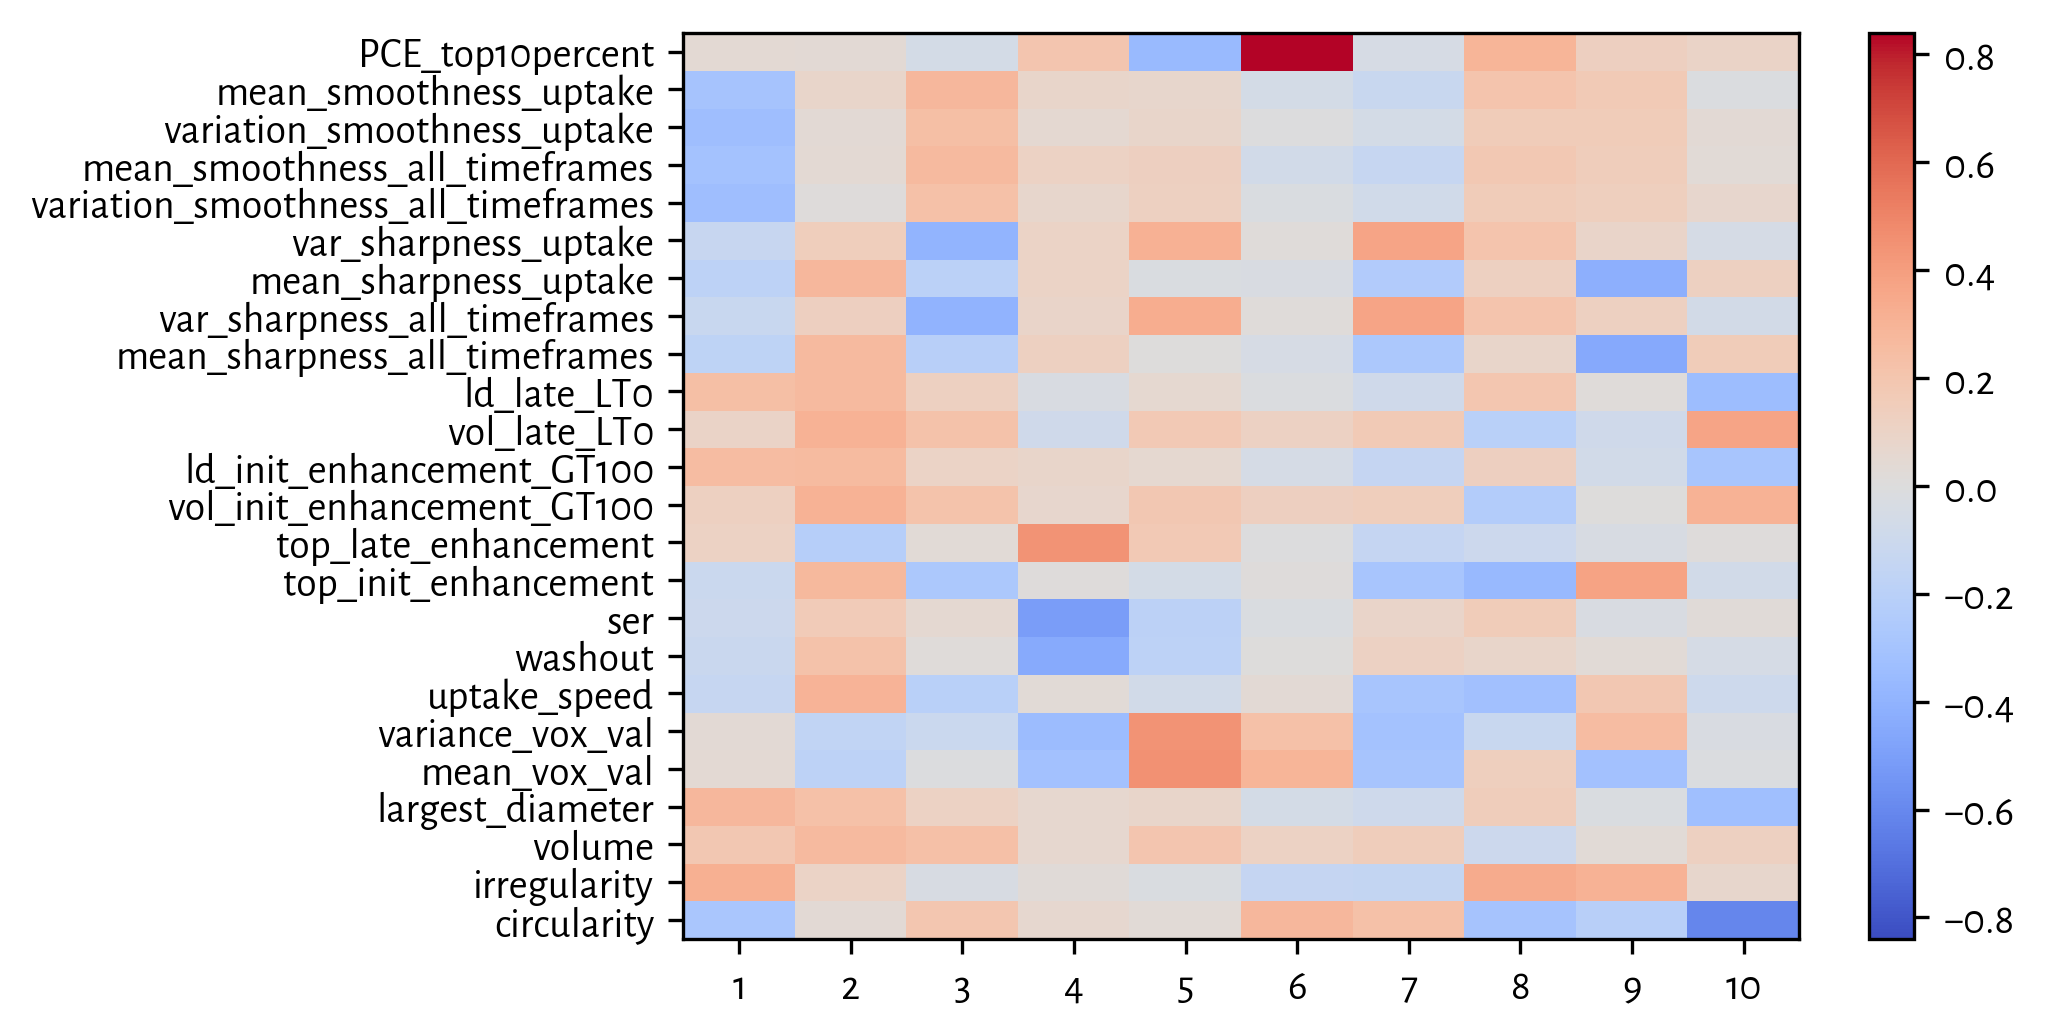
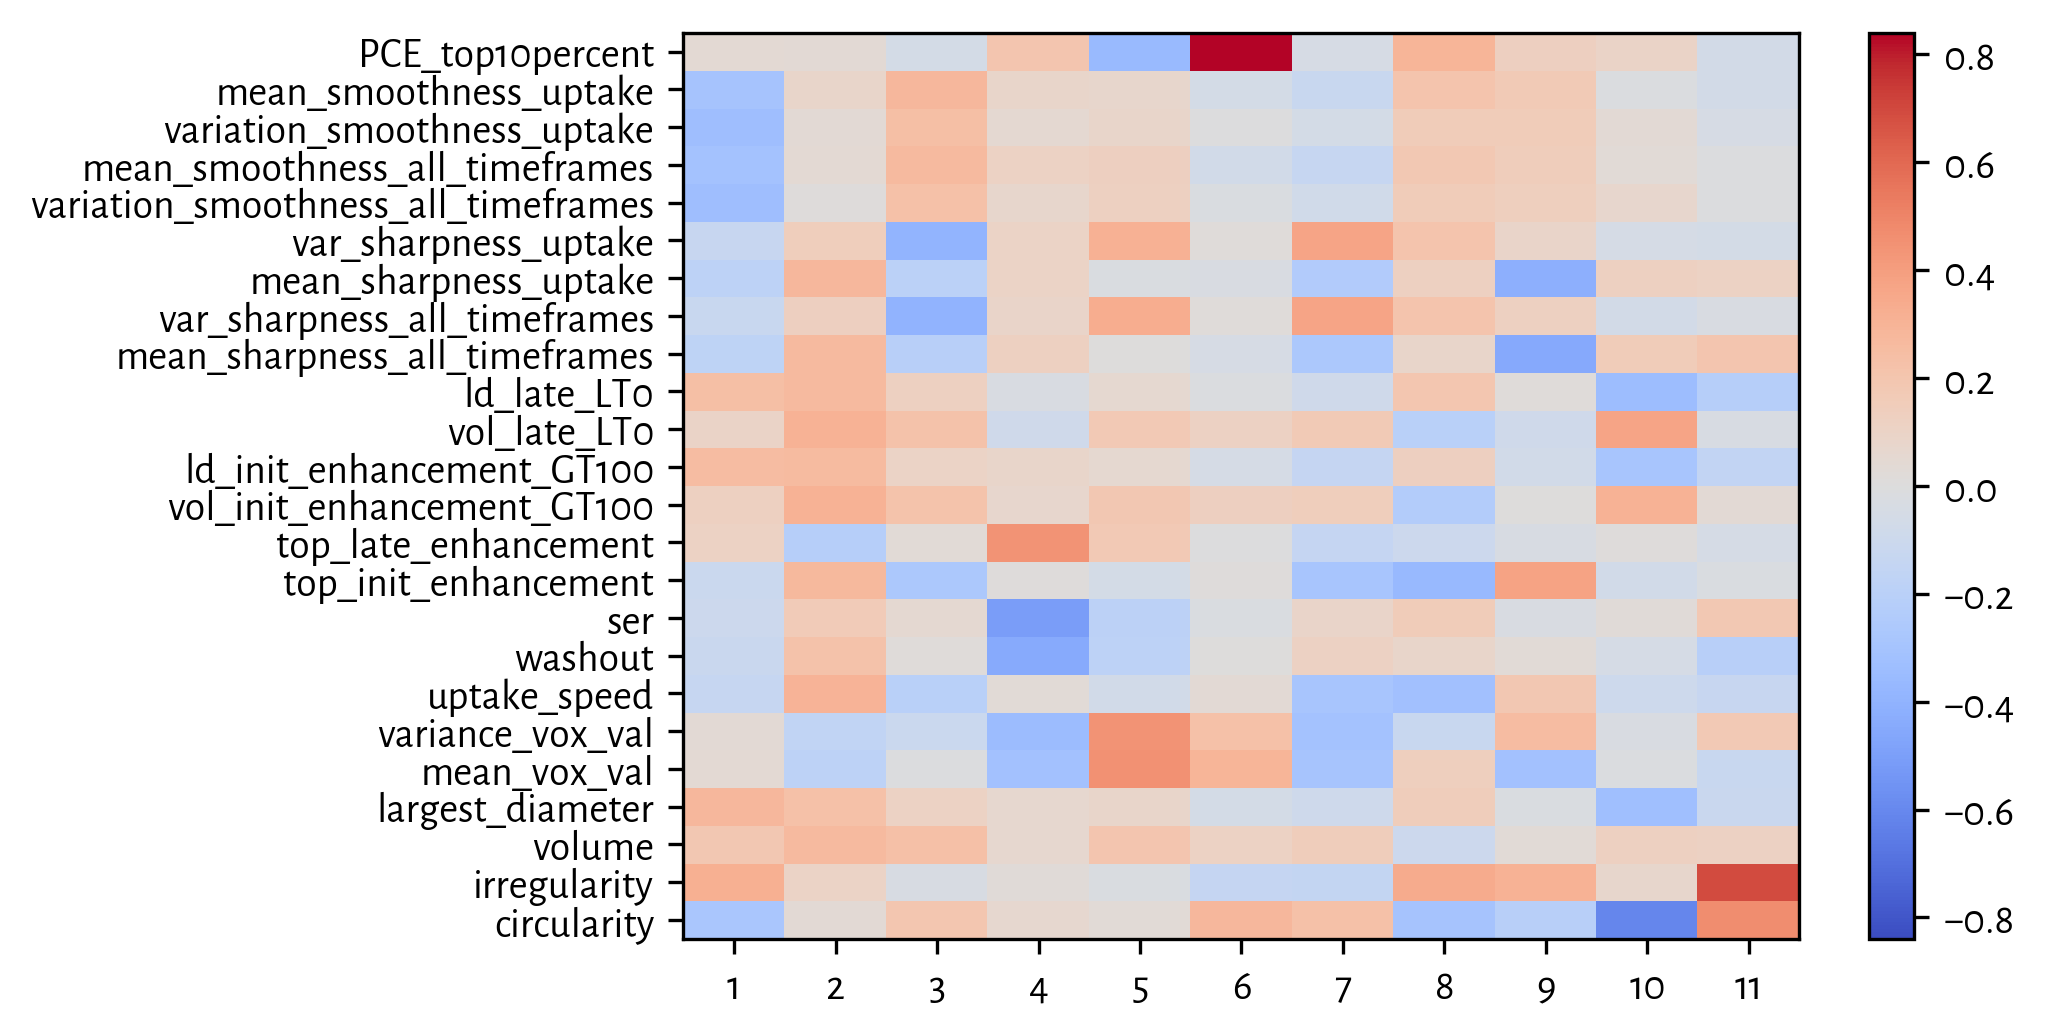
Do varimax rotation if MRI features PCa

diff --git a/reports/mri-remove-size.md b/reports/mri-remove-size.md
@@ -11,15 +11,14 @@ Load libraries.
 
 ```python
 from math import sqrt, ceil
-import sys
 
+import factor_rotation
 from IPython.display import display, Markdown
 import numpy as np
 import scipy.stats
 import sklearn.decomposition
 import xarray as xr
 
-sys.path.append('../src/lib/')
 import plot
 ```
 
@@ -77,11 +76,10 @@ Coordinates:
   * cad_feature  (cad_feature) <U35 'circularity' 'irregularity'
 'volume' ...
 Attributes:
-    title: MRI features from Margins of samples with gene expression
-data from Imagene
-    history: 2017-04-12T14:56:13+00:00 process_mri.py Converted from
-/home/tycho/Projects/Imagene/mri-rnaseq-integration/data/raw/mri-
-features.xlsx.
+    title:    MRI features from Margins of samples with gene
+expression data ...
+    history:  2017-04-12T14:56:13+00:00 process_mri.py Converted from
+/home/t...
 ```
 
 
@@ -92,12 +90,12 @@ features.xlsx.
 
 
 ```python
-pca = sklearn.decomposition.PCA(10)
+pca = sklearn.decomposition.PCA()
 pca.fit((mri / mri.std('case')).values)
 ```
 
 ```
-PCA(copy=True, iterated_power='auto', n_components=10,
+PCA(copy=True, iterated_power='auto', n_components=None,
 random_state=None,
   svd_solver='auto', tol=0.0, whiten=False)
 ```
@@ -106,9 +104,36 @@ random_state=None,
 
 
 ```python
+total_var = np.sum(pca.explained_variance_)
+with plot.subplots(3, 1, sharex=True) as (fig, axs):
+    axs[0].plot(
+        range(1, len(pca.explained_variance_)+1),
+        np.cumsum(pca.explained_variance_) / total_var
+    )
+    axs[0].set_ylabel("Total\nExplained Variance")
+    axs[1].plot(
+        range(1, len(pca.explained_variance_)+1),
+        pca.explained_variance_ / total_var
+    )
+    axs[1].set_ylabel("Explained Variance")
+    axs[2].plot(
+        range(2, len(pca.explained_variance_)+1),
+        abs(pca.explained_variance_[1:] - pca.explained_variance_[:-1]) /
+        total_var,
+    )
+    axs[2].set_xlabel("PC")
+    axs[2].set_ylabel("Delta\nExplained Variance")
+n_components = 11
+```
+
+![](figures/mri-remove-size_pca-ev_1.png){#pca-ev }\
+
+
+
+```python
 plot.heatmap(
-    pca.components_.T,
-    xticklabels=[str(i+1) for i in range(pca.components_.shape[0])],
+    pca.components_[:n_components, :].T,
+    xticklabels=[str(i+1) for i in range(n_components)],
     yticklabels=mri.cad_feature.values,
 )
 ```
@@ -173,33 +198,7 @@ for feature in mri['cad_feature'].values:
     else:
         mri_adj.loc[:, feature] = mri.loc[:, feature]
 mri_adj
-```
-
-```
-<xarray.DataArray (case: 282, cad_feature: 24)>
-array([[  0.834377,   0.404613,   9.223177, ...,   1.788136,
-0.560459,
-          0.3728  ],
-       [  0.708083,   0.565305,  23.817364, ...,   1.267695,
-0.538998,   0.277   ],
-       [  0.81277 ,   0.522746,  17.352358, ...,   1.816568,
-0.578061,
-          0.4661  ],
-       ...,
-       [  0.815605,   0.448007,  16.387729, ...,   1.871099,
-0.577052,
-          0.2941  ],
-       [  0.720879,   0.64011 ,  25.838845, ...,   1.974781,
-0.588704,
-          0.5646  ],
-       [  0.644293,   0.496937,  12.224077, ...,   1.188642,
-0.520065,
-          0.5387  ]])
-Coordinates:
-  * case         (case) int64 192 196 199 207 208 217 219 269 273 274
-288 ...
-  * cad_feature  (cad_feature) <U35 'circularity' 'irregularity'
-'volume' ...
+mri_adj.to_netcdf('t.nc')
 ```
 
 
@@ -236,12 +235,12 @@ with plot.subplots(n_row, n_col, figsize=fs) as (fig, axs):
 
 
 ```python
-pca_adj = sklearn.decomposition.PCA(10)
+pca_adj = sklearn.decomposition.PCA()
 pca_adj.fit((mri_adj / mri_adj.std('case')).values)
 ```
 
 ```
-PCA(copy=True, iterated_power='auto', n_components=10,
+PCA(copy=True, iterated_power='auto', n_components=None,
 random_state=None,
   svd_solver='auto', tol=0.0, whiten=False)
 ```
@@ -250,9 +249,38 @@ random_state=None,
 
 
 ```python
+total_var = np.sum(pca.explained_variance_)
+with plot.subplots(3, 1, sharex=True) as (fig, axs):
+    axs[0].plot(
+        range(1, len(pca_adj.explained_variance_)+1),
+        np.cumsum(pca_adj.explained_variance_) / total_var
+    )
+    axs[0].set_ylabel("Total\nExplained Variance")
+    axs[1].plot(
+        range(1, len(pca_adj.explained_variance_)+1),
+        pca_adj.explained_variance_ / total_var
+    )
+    axs[1].set_ylabel("Explained Variance")
+    axs[2].plot(
+        range(2, len(pca_adj.explained_variance_)+1),
+        abs(pca_adj.explained_variance_[1:] -
+            pca_adj.explained_variance_[:-1]) /
+        total_var,
+    )
+    axs[2].set_xlabel("PC")
+    axs[2].set_ylabel("Delta\nExplained Variance")
+n_components = 10
+```
+
+![](figures/mri-remove-size_pca-adj-ev_1.png){#pca-adj-ev }\
+
+
+
+
+```python
 plot.heatmap(
-    pca_adj.components_.T,
-    xticklabels=[str(i+1) for i in range(pca_adj.components_.shape[0])],
+    pca_adj.components_[:n_components, :].T,
+    xticklabels=[str(i+1) for i in range(n_components)],
     yticklabels=mri_adj.cad_feature.values,
 )
 ```
@@ -275,4 +303,47 @@ with plot.subplots(1, 1, figsize=(7, 7)) as (fig, ax):
 ```
 
 ![](figures/mri-remove-size_plot-pca-adj-a_1.png){#plot-pca-adj-a }\
+
+
+#### Varimax ####
+
+
+
+```python
+coeff_varimax, _ = factor_rotation.rotate_factors(
+    pca_adj.components_[:n_components, :].T,
+    'varimax',
+)
+coeff_varimax = coeff_varimax.T
+```
+
+
+
+
+```python
+plot.heatmap(
+    coeff_varimax.T,
+    xticklabels=[str(i+1) for i in range(coeff_varimax.shape[0])],
+    yticklabels=mri_adj.cad_feature.values,
+)
+```
+
+![](figures/mri-remove-size_heatmap-pca-adj-varimax_1.png){#heatmap-pca-adj-varimax }\
+
+
+
+```python
+with plot.subplots(1, 1, figsize=(7, 7)) as (fig, ax):
+    ax.set_xlim(-1, 1)
+    ax.set_ylim(-1, 1)
+    for i in range(coeff_varimax.shape[1]):
+        ax.arrow(0, 0, coeff_varimax[0, i], coeff_varimax[1, i])
+        alength = sqrt(coeff_varimax[0, i]**2 +
+                       coeff_varimax[1, i]**2)
+        if alength > 0.25:
+            ax.text(coeff_varimax[0, i], coeff_varimax[1, i],
+                    mri_adj['cad_feature'].values[i])
+```
+
+![](figures/mri-remove-size_plot-pca-adj-varimax_1.png){#plot-pca-adj-varimax }\
 
